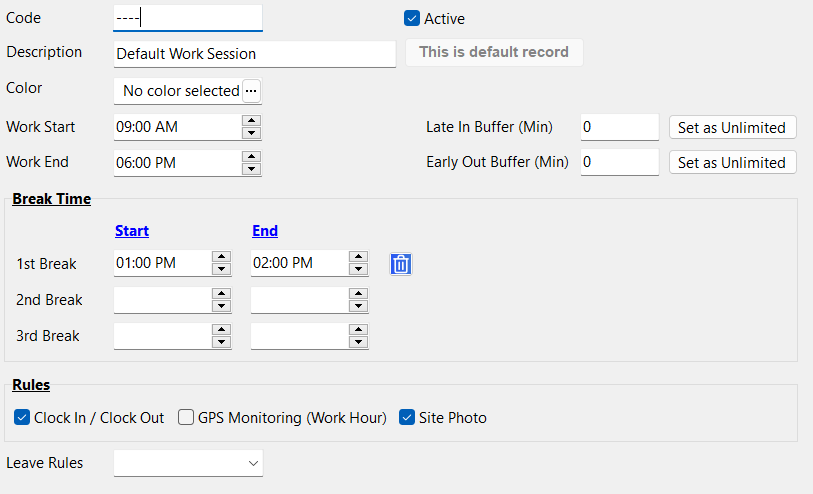
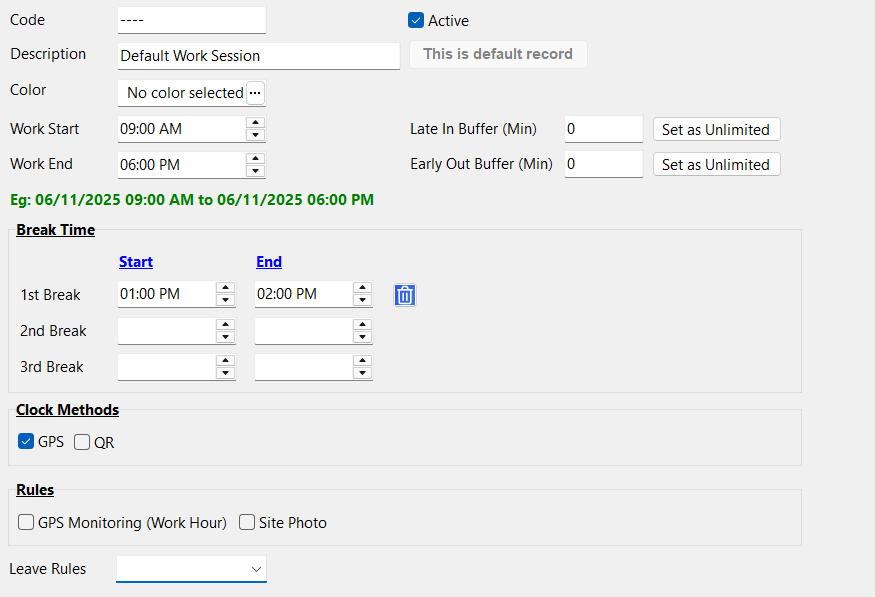
feat: add etms qr code guide

diff --git a/docs/integration/hrms/e-tms/app-usage.md b/docs/integration/hrms/e-tms/app-usage.md
@@ -13,14 +13,17 @@ Enable **Autostart** for SQL HRMS to ensure E TMS features work accordingly (ref
     ![dashboard](../../../../static/img/integration/hrms/e-tms/dashboard.png)  
 
 - **Session Card:** User's work session shift time
+    - Icon on the top right corner (green box) indicates the clock method (by GPS or QR) of the day. If there is no icon displayed, it means that user is not required to clock for that day  
     - It shows user's first Clock In and last Clock Out of the day with an estimated calculation of late in and early out
     - User can tap on the card to direct to User's Attendance Log
     - User can tap on the ***'Clock In' button*** to direct to Clock In / Clock Out page
-        - If no work session is assigned, the button will be disabled  
+        - If no work session is assigned or no clock method is selected, the button will be disabled  
 - **Upcoming Holiday:** User's upcoming public holidays
 
 
 ## Clock In / Clock Out
+
+### By GPS
 
 | **Button** | **Explanation** |
 | :--------- | :-------------- |
@@ -28,8 +31,8 @@ Enable **Autostart** for SQL HRMS to ensure E TMS features work accordingly (ref
 | ![clock-button2](../../../../static/img/integration/hrms/e-tms/clock-button2.png) | SQL HRMS app is trying to get user's current location | 
 | ![clock-button3](../../../../static/img/integration/hrms/e-tms/clock-button3.png) | User is not within work location. However, if user is really within their work location, SQL HRMS app will continuously try to get a more accurate position so that user will be able to Clock In / Clock Out | 
 | ![clock-button4](../../../../static/img/integration/hrms/e-tms/clock-button4.png) | User's location is mocked and is not allowed to Clock In / Out | 
-| ![clock-button5](../../../../static/img/integration/hrms/e-tms/clock-button5.png) | User is within work location and is allowed to Clock In | 
-| ![clock-button6](../../../../static/img/integration/hrms/e-tms/clock-button6.png) | User is within work location and is allowed to Clock Out | 
+| ![clock-button5](../../../../static/img/integration/hrms/e-tms/clock-button5.png) | User is within work location and is allowed to Clock In |  
+| ![clock-button6](../../../../static/img/integration/hrms/e-tms/clock-button6.png) | User is within work location and is allowed to Clock Out |  
 
 **Clock In**  
     
@@ -66,7 +69,34 @@ If user forget to clock out, the app will reset the time tracking after 10 hours
     - An earn replacement leave application will be posted when employee clocked out
     - When employee tap the ***'Clock Out' button***, a **'Claim As Leave'** dialog will be prompt that allows the employee to pick the leave type that they want to claim
 
-    ![clock-out7](../../../../static/img/integration/hrms/e-tms/clock-out7.png)
+    ![clock-out7](../../../../static/img/integration/hrms/e-tms/clock-out7.png)  
+
+### By QR  
+
+| **Button** | **Explanation** |  
+| :--------- | :-------------- |  
+| ![clock-button7](../../../../static/img/integration/hrms/e-tms/clock-button7.png) | SQL HRMS app's Bluetooth service is unable to start. This may due to the following reasons: <br/><br/> 1. User's Bluetooth service is not enabled <br/> 2. The required nearby devices permission is not allowed <br/><br/> Refer [Bluetooth Service and Nearby Devices Permission](../permission#nearby-devices--bluetooth) |  
+| ![clock-button5](../../../../static/img/integration/hrms/e-tms/clock-button5.png) | User is allowed to Clock In |  
+| ![clock-button6](../../../../static/img/integration/hrms/e-tms/clock-button6.png) | User is allowed to Clock Out |  
+
+**Clock In**  
+
+    ![clock-in3](../../../../static/img/integration/hrms/e-tms/clock-in3.png)  
+
+- **'Attachments'** field will not be available  
+- Proceed to Clock In will generate a QR Code that will be scanned by SQL Clock In app  
+    - User can adjust the brightness of the screen with the slider  
+    - The QR Code will only be valid for 20s before user will need to regenerate a new QR Code  
+
+**Clock Out**  
+
+    ![clock-out8](../../../../static/img/integration/hrms/e-tms/clock-out8.png)  
+
+- If ***'Claim OT' switch*** is turned on, it will go through similar OT validations as *By GPS* before QR Code is generated  
+
+:::warning
+Screenshotting the QR Code is not allowed!
+:::
 
 ### Work Location
 
@@ -74,7 +104,12 @@ If user forget to clock out, the app will reset the time tracking after 10 hours
     
     ![work-location](../../../../static/img/integration/hrms/e-tms/work-location.png)  
 
+- **Purple Location icon:** Employee's current location
 - **Green Check icon:** Location that the employee is currently in
+
+:::info
+Multiple work locations with the same coordinate will be considered as one
+:::
 
 ## Work Session Calendar
 
@@ -86,7 +121,8 @@ User can view his own work session in calendar view
 
 - **Red font with purple box:** Public Holiday
 - **Purple box:** Rest Day
-- **Location icon:** Direct to Work Location page to view locations where the user is allowed to clock in / clock out on that day (refer [Work Location](#work-location))
+- **Icon (bottom right corner):** Clock Method
+- **Whole card:** Direct to [Work Location](#work-location) page to view locations where the user is allowed to clock in / clock out on that day
 
 ### Team Work Session
 

diff --git a/docs/integration/hrms/permission.md b/docs/integration/hrms/permission.md
@@ -146,4 +146,54 @@ If you have disabled this feature previously, you can skip all of the following 
 
 **Step 2:** Select ***'Allow Full Access'***  
 
-    ![ios-photo3](../../../static/img/integration/hrms/permission/ios-photo3.png)  
+    ![ios-photo3](../../../static/img/integration/hrms/permission/ios-photo3.png)
+
+## Nearby Devices / Bluetooth
+
+### Android  
+
+**From SQL HRMS app**  
+
+:::info
+For **Android 11 and below**, may skip to Step 2  
+:::
+
+**Step 1:** Select ***'Allow'***   
+
+    ![android-bluetooth1](../../../static/img/integration/hrms/permission/android-bluetooth1.png)
+
+**Step 2:** Turn on ***Bluetooth service***  
+
+    ![android-bluetooth2](../../../static/img/integration/hrms/permission/android-bluetooth2.png)
+
+**From Device Settings**  
+
+:::info
+Only for **Android 12 and above**  
+:::
+
+**Step:** App Info | App permissions | Nearby devices | Select ***'Allow'***  
+
+    ![android-bluetooth3](../../../static/img/integration/hrms/permission/android-bluetooth3.png)  
+
+### iOS
+
+**From SQL HRMS app**  
+
+**Step 1:** Select ***'Allow'***  
+
+    ![ios-bluetooth1](../../../static/img/integration/hrms/permission/ios-bluetooth1.png)  
+
+**Step 2:** Select ***'Settings'*** | Toggle ***'Bluetooth'*** on | Return to SQL HRMS   
+
+    ![ios-bluetooth2](../../../static/img/integration/hrms/permission/ios-bluetooth2.png)  
+
+**From Device Settings**  
+
+**Step 1:** Settings | Search for ***'SQL HRMS'*** | Toggle ***'Bluetooth'*** on  
+
+    ![ios-bluetooth3](../../../static/img/integration/hrms/permission/ios-bluetooth3.png)  
+
+**Step 2:** Settings | Bluetooth | Toggle ***'Bluetooth'*** on  
+
+    ![ios-bluetooth4](../../../static/img/integration/hrms/permission/ios-bluetooth4.png)  

diff --git a/docs/integration/hrms/e-tms/payroll-setup.md b/docs/integration/hrms/e-tms/payroll-setup.md
@@ -66,12 +66,24 @@ Option 2: Click on ***'P' button*** | Select date
 **Step 3:** Enter Break Time
 - May add up to 3 break times
 
-**Step 4:** Select Rules  
-- ***'Clock In / Clock Out' checkbox:*** Requires to clock in / out in SQL HRMS app
-- ***'GPS Monitoring' checkbox:*** Post status update if employee left work location
+**Step 4:** Select a Clock Method
+- ***'GPS' checkbox:*** Clock in / out using employee's location in SQL HRMS app
+- ***'QR' checkbox:*** Clock in / out using QR Code generated from SQL HRMS app and scan it on SQL Clock In app
+
+:::info
+1. Only one clock method can be selected. However, if none of the clock method is selected, then the clock in / out button in SQL HRMS app will be disabled and employee does not require to clock in / out.
+2. Clock Method on days without work session, public holiday and rest day is by default **GPS**.
+:::
+
+**Step 5:** Select Rules  
+- ***'GPS Monitoring' checkbox:*** Post status update if employee left work location 
 - ***'Site Photo' checkbox:*** Requires to take photo before clock in / out (User cannot upload picture from album)
 
-**Step 5:** Save
+:::info
+***'GPS Monitoring'*** and ***'Site Photo'*** will be disabled if ***'QR'*** or ***no clock method*** is selected
+:::
+
+**Step 6:** Save  
 
 **Optional**
 - User may select ***'Leave Rules'*** if applicable
